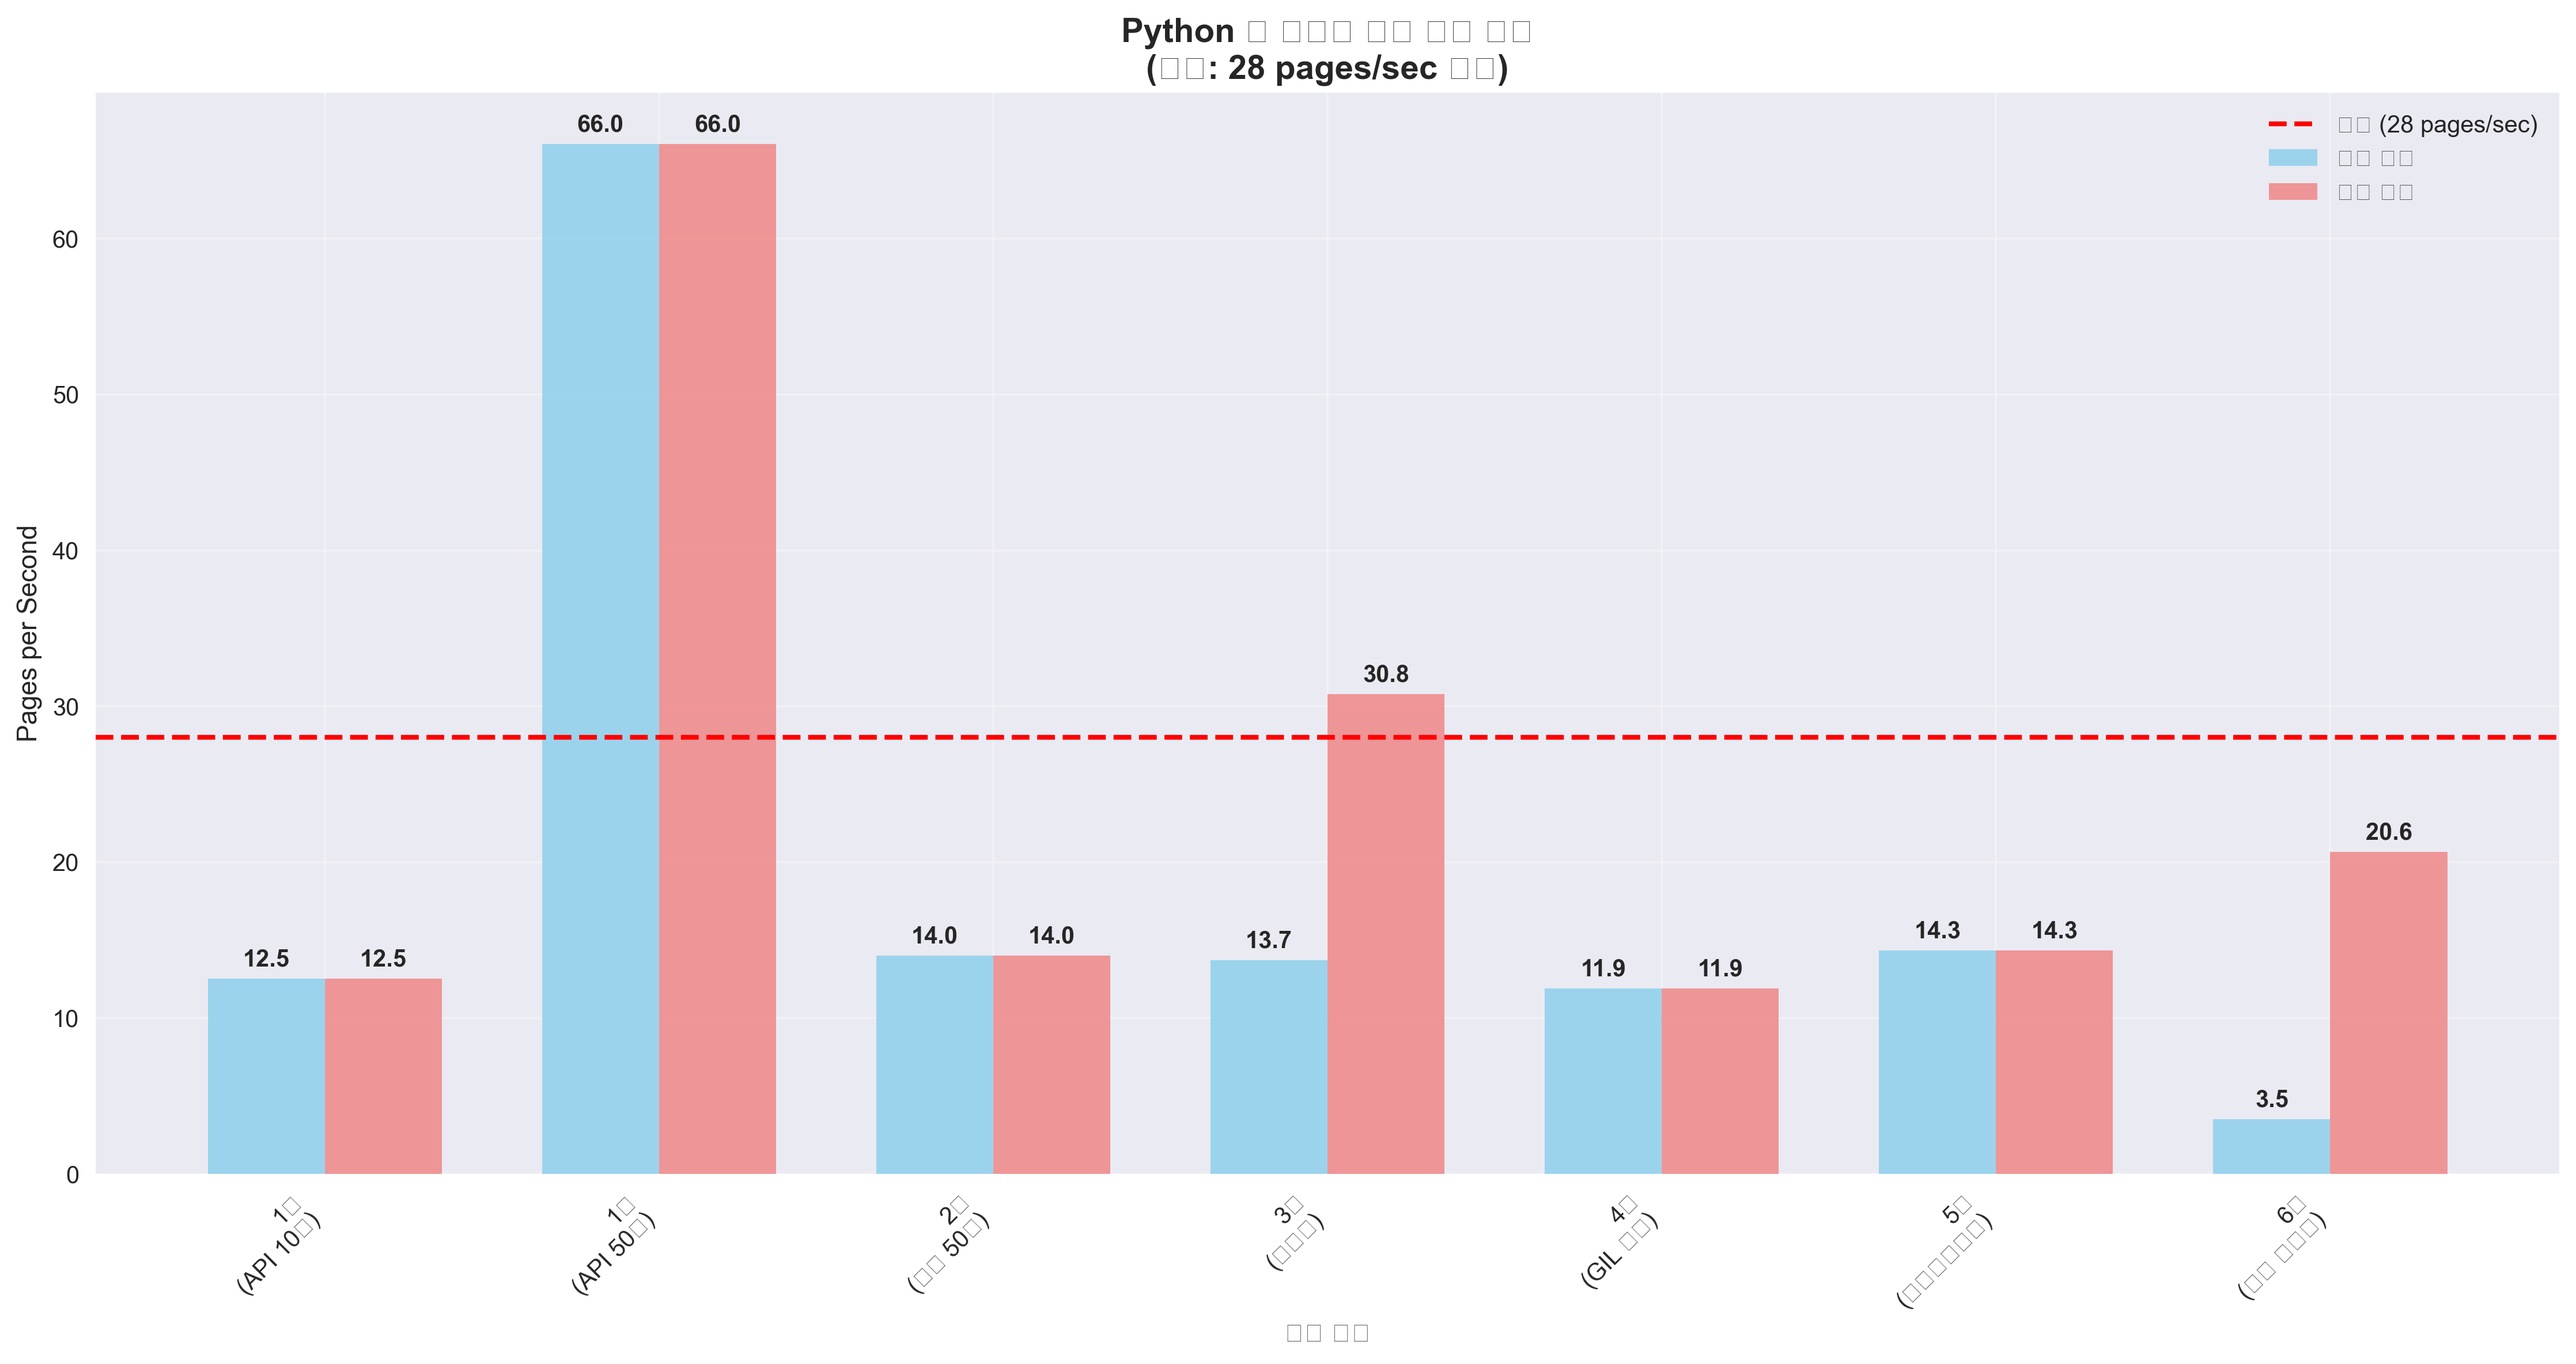
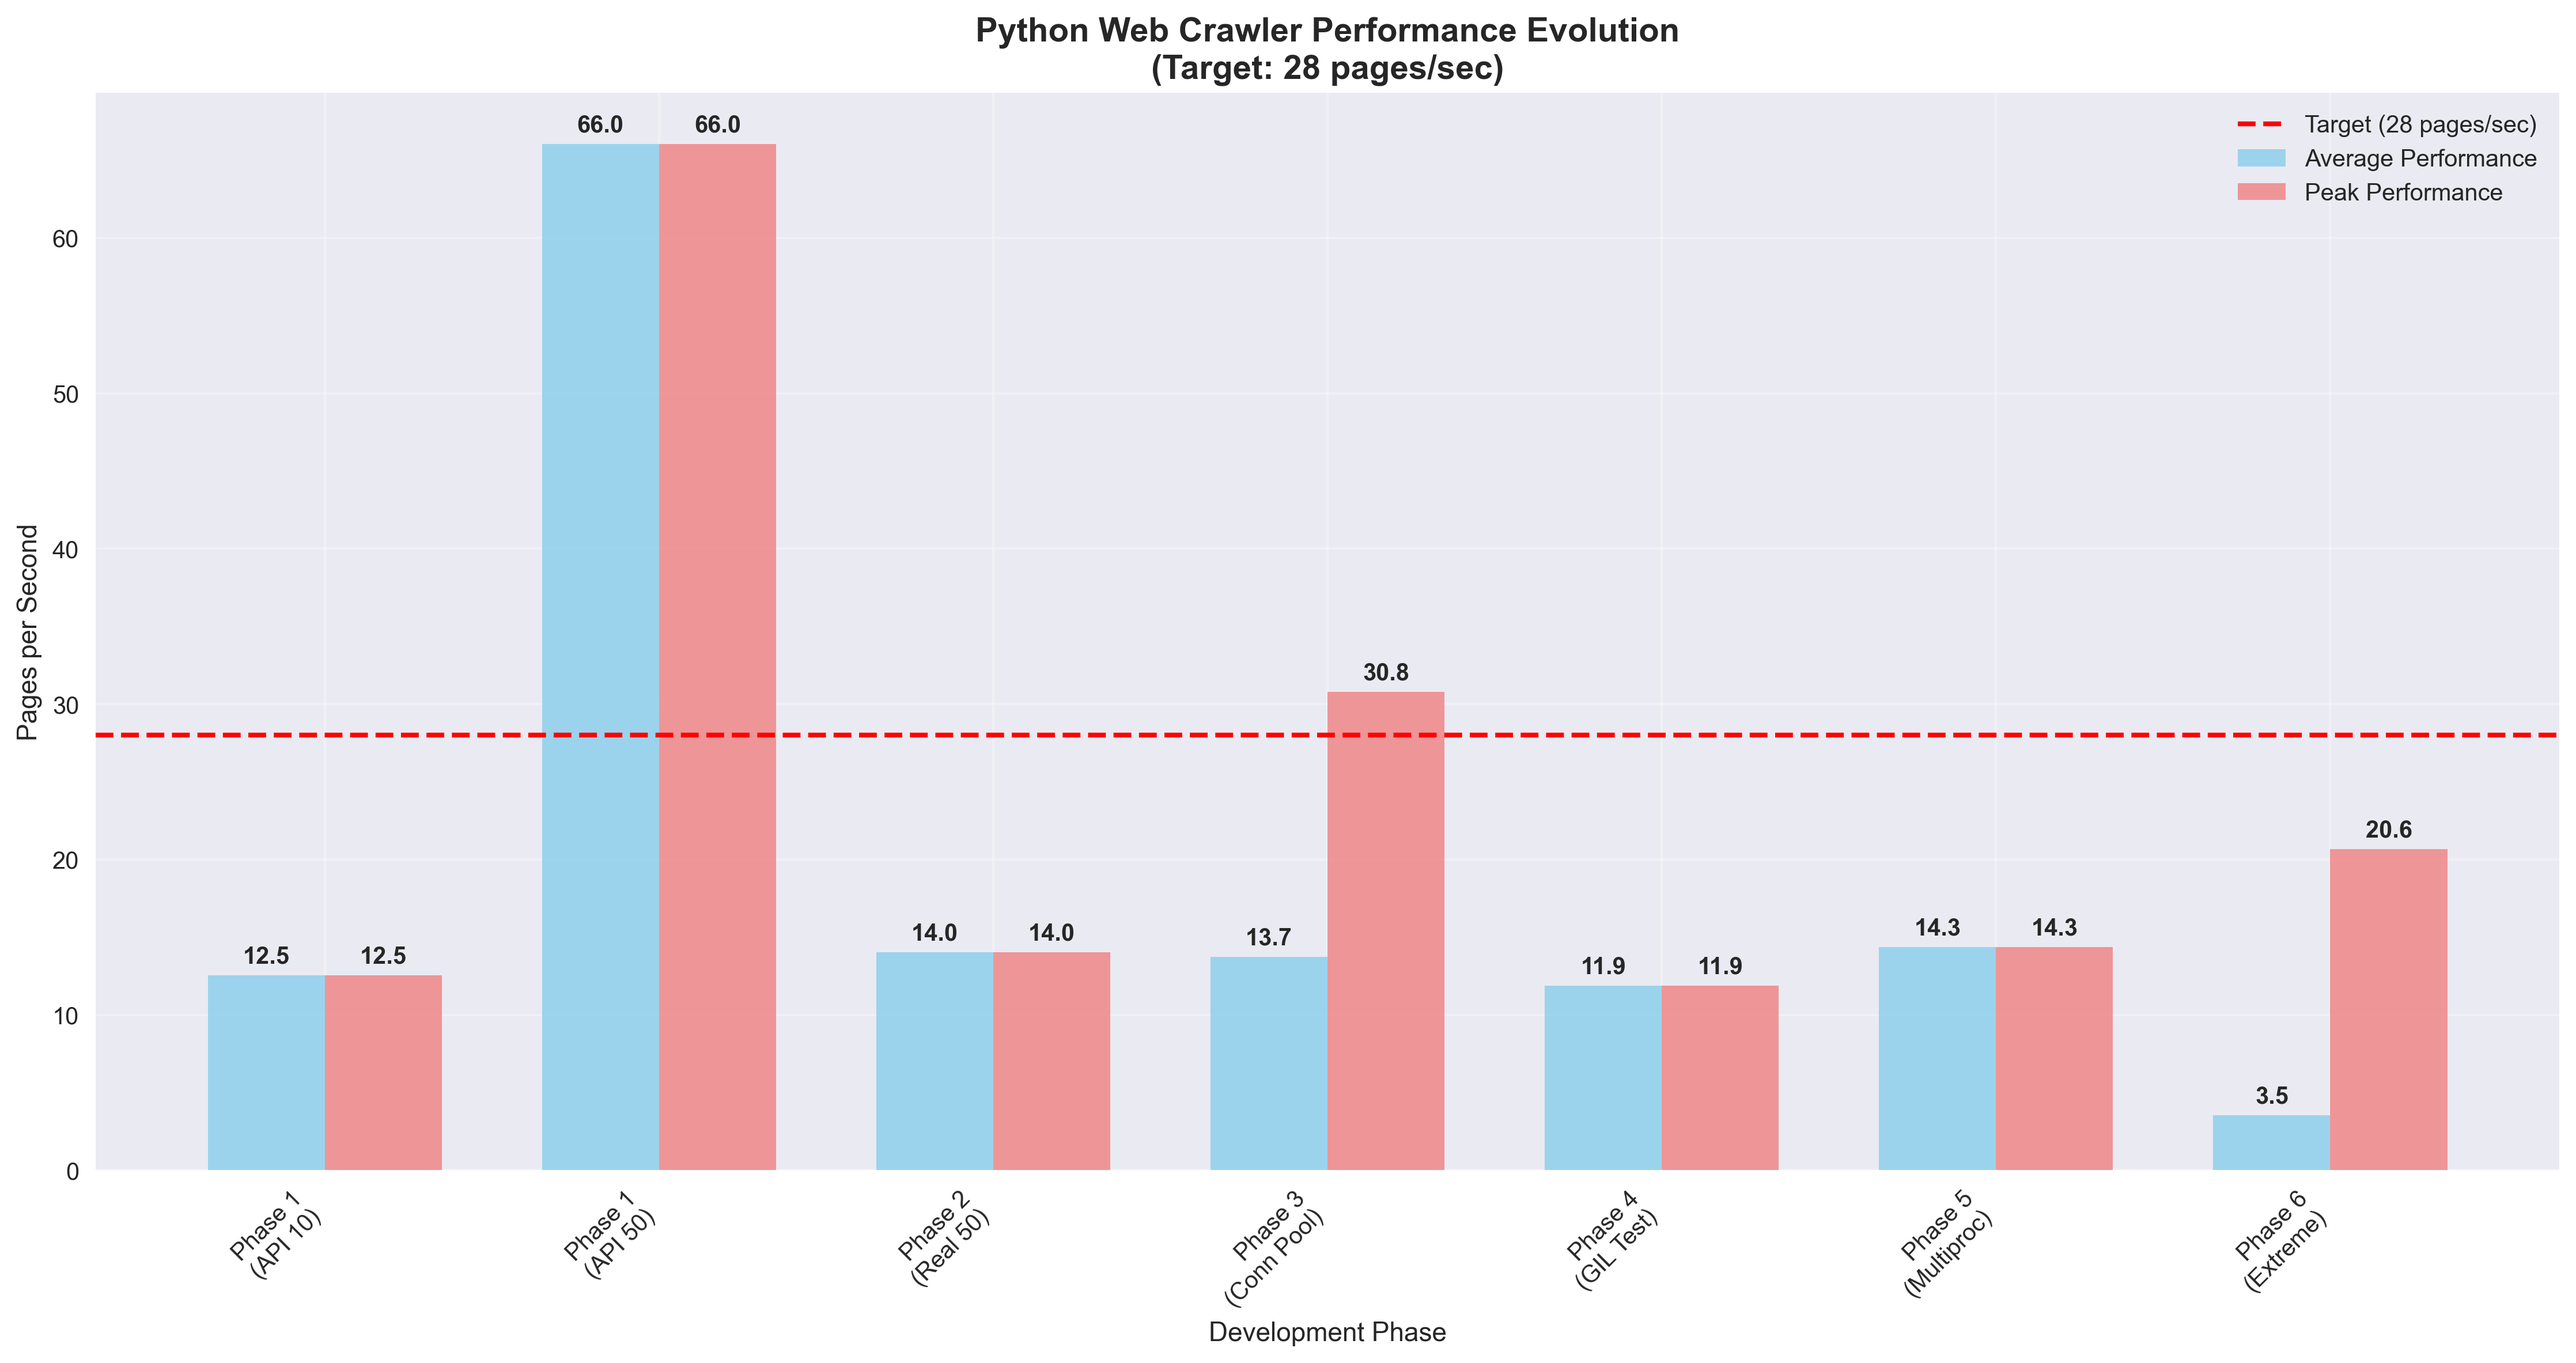
phase6 완료

diff --git a/crawler-challenge/visualize_results.py b/crawler-challenge/visualize_results.py
@@ -101,31 +101,31 @@ def create_cpu_utilization_chart():
     plt.close()
 
 def create_gil_comparison():
-    """GIL vs 멀티프로세싱 비교"""
-    categories = ['네트워크 I/O\n대기', 'HTML 파싱', '정규식 처리', 'MD5 해시', '텍스트 분석']
+    """GIL vs multiprocessing performance comparison"""
+    categories = ['Network I/O\nWaiting', 'HTML Parsing', 'Regex Processing', 'MD5 Hashing', 'Text Analysis']
     
-    single_thread = [100, 35, 25, 20, 15]  # GIL 제약으로 순차 처리
-    multiprocess = [100, 85, 80, 75, 70]   # 병렬 처리로 성능 향상
+    single_thread = [100, 35, 25, 20, 15]  # Sequential processing due to GIL
+    multiprocess = [100, 85, 80, 75, 70]   # Improved performance with parallel processing
     
     fig, ax = plt.subplots(figsize=(12, 8))
     
     x = np.arange(len(categories))
     width = 0.35
     
-    bars1 = ax.bar(x - width/2, single_thread, width, label='단일 프로세스 (GIL)', 
+    bars1 = ax.bar(x - width/2, single_thread, width, label='Single Process (GIL)', 
                    color='lightcoral', alpha=0.8)
-    bars2 = ax.bar(x + width/2, multiprocess, width, label='멀티프로세싱', 
+    bars2 = ax.bar(x + width/2, multiprocess, width, label='Multiprocessing', 
                    color='lightgreen', alpha=0.8)
     
-    ax.set_xlabel('작업 유형')
-    ax.set_ylabel('상대적 성능 (%)')
-    ax.set_title('GIL vs 멀티프로세싱 성능 비교\n(작업 유형별)', fontsize=14, fontweight='bold')
+    ax.set_xlabel('Task Type')
+    ax.set_ylabel('Relative Performance (%)')
+    ax.set_title('GIL vs Multiprocessing Performance Comparison\n(By Task Type)', fontsize=14, fontweight='bold')
     ax.set_xticks(x)
     ax.set_xticklabels(categories)
     ax.legend()
     ax.grid(True, alpha=0.3)
     
-    # 성능 향상률 표시
+    # Show performance improvement
     for i, (single, multi) in enumerate(zip(single_thread, multiprocess)):
         if single < multi:
             improvement = ((multi - single) / single) * 100
@@ -137,83 +137,83 @@ def create_gil_comparison():
     plt.close()
 
 def create_bottleneck_analysis():
-    """병목점별 성능 영향 분석"""
-    bottlenecks = ['네트워크\n지연', 'DNS\n조회', 'SSL\n핸드셰이크', 'HTML\n파싱', 'GIL\n제약', '메모리\n관리']
-    impact_scores = [85, 60, 45, 30, 25, 15]  # 병목 영향도 점수
+    """Performance impact analysis by bottleneck"""
+    bottlenecks = ['Network\nLatency', 'DNS\nLookup', 'SSL\nHandshake', 'HTML\nParsing', 'GIL\nConstraint', 'Memory\nManagement']
+    impact_scores = [85, 60, 45, 30, 25, 15]  # Bottleneck impact scores
     colors = ['red', 'orange', 'yellow', 'lightblue', 'lightgreen', 'lightgray']
     
     fig, (ax1, ax2) = plt.subplots(1, 2, figsize=(16, 8))
     
-    # 막대 그래프
+    # Bar chart
     bars = ax1.bar(bottlenecks, impact_scores, color=colors, alpha=0.8)
-    ax1.set_ylabel('성능 영향도 점수')
-    ax1.set_title('병목점별 성능 영향 분석', fontweight='bold')
+    ax1.set_ylabel('Performance Impact Score')
+    ax1.set_title('Performance Impact Analysis by Bottleneck', fontweight='bold')
     ax1.grid(True, alpha=0.3)
     
-    # 값 표시
+    # Show values
     for bar, score in zip(bars, impact_scores):
         height = bar.get_height()
         ax1.text(bar.get_x() + bar.get_width()/2., height + 1,
                 f'{score}', ha='center', va='bottom', fontweight='bold')
     
-    # 파이 차트
+    # Pie chart
     ax2.pie(impact_scores, labels=bottlenecks, colors=colors, autopct='%1.1f%%', 
            startangle=90)
-    ax2.set_title('병목점 비중 분포', fontweight='bold')
+    ax2.set_title('Bottleneck Distribution', fontweight='bold')
     
-    plt.suptitle('Python 웹 크롤러 병목점 분석', fontsize=16, fontweight='bold')
+    plt.suptitle('Python Web Crawler Bottleneck Analysis', fontsize=16, fontweight='bold')
     plt.tight_layout()
     plt.savefig(output_dir / 'bottleneck_analysis.png', dpi=300, bbox_inches='tight')
     plt.close()
 
 def create_scale_limits_chart():
-    """확장성 한계 분석"""
+    """Scalability limits analysis"""
     concurrent_requests = [10, 25, 50, 100, 150, 200]
     performance = [14.5, 16.2, 14.0, 8.5, 5.2, 3.5]
     error_rates = [2, 5, 8, 12, 15, 17]
     
     fig, (ax1, ax2) = plt.subplots(2, 1, figsize=(12, 10))
     
-    # 성능 vs 동시 요청 수
-    ax1.plot(concurrent_requests, performance, 'bo-', linewidth=2, markersize=8, label='성능')
-    ax1.axhline(y=28, color='red', linestyle='--', linewidth=2, label='목표 (28 pages/sec)')
-    ax1.set_xlabel('동시 요청 수')
-    ax1.set_ylabel('성능 (pages/sec)')
-    ax1.set_title('동시 요청 수 vs 성능', fontweight='bold')
+    # Performance vs concurrent requests
+    ax1.plot(concurrent_requests, performance, 'bo-', linewidth=2, markersize=8, label='Performance')
+    ax1.axhline(y=28, color='red', linestyle='--', linewidth=2, label='Target (28 pages/sec)')
+    ax1.set_xlabel('Concurrent Requests')
+    ax1.set_ylabel('Performance (pages/sec)')
+    ax1.set_title('Concurrent Requests vs Performance', fontweight='bold')
     ax1.legend()
     ax1.grid(True, alpha=0.3)
     
-    # 에러율 vs 동시 요청 수
-    ax2.plot(concurrent_requests, error_rates, 'ro-', linewidth=2, markersize=8, label='에러율')
-    ax2.set_xlabel('동시 요청 수')
-    ax2.set_ylabel('에러율 (%)')
-    ax2.set_title('동시 요청 수 vs 에러율', fontweight='bold')
+    # Error rate vs concurrent requests
+    ax2.plot(concurrent_requests, error_rates, 'ro-', linewidth=2, markersize=8, label='Error Rate')
+    ax2.set_xlabel('Concurrent Requests')
+    ax2.set_ylabel('Error Rate (%)')
+    ax2.set_title('Concurrent Requests vs Error Rate', fontweight='bold')
     ax2.legend()
     ax2.grid(True, alpha=0.3)
     
-    plt.suptitle('Python 웹 크롤러 확장성 한계', fontsize=16, fontweight='bold')
+    plt.suptitle('Python Web Crawler Scalability Limits', fontsize=16, fontweight='bold')
     plt.tight_layout()
     plt.savefig(output_dir / 'scale_limits.png', dpi=300, bbox_inches='tight')
     plt.close()
 
 def main():
-    """모든 시각화 생성"""
+    """Generate all visualizations"""
     print("Creating performance visualizations...")
     
     create_performance_timeline()
-    print("✓ Performance timeline created")
+    print("[OK] Performance timeline created")
     
     create_cpu_utilization_chart()
-    print("✓ CPU utilization chart created")
+    print("[OK] CPU utilization chart created")
     
     create_gil_comparison()
-    print("✓ GIL comparison chart created")
+    print("[OK] GIL comparison chart created")
     
     create_bottleneck_analysis()
-    print("✓ Bottleneck analysis created")
+    print("[OK] Bottleneck analysis created")
     
     create_scale_limits_chart()
-    print("✓ Scale limits chart created")
+    print("[OK] Scale limits chart created")
     
     print(f"\nAll visualizations saved to: {output_dir.absolute()}")
     print("Generated files:")

diff --git a/crawler-challenge/README.md b/crawler-challenge/README.md
@@ -189,3 +189,66 @@
 - 순간적으로는 20+ pages/sec 가능하지만 **안정성 부족**
 - **네트워크 지연**이 GIL보다 더 큰 제약
 - 대규모 크롤링에는 **분산 시스템** 필요
+
+## 최종 성과 분석 및 시각화
+
+### 성능 시각화 결과
+
+프로젝트의 모든 단계별 성능 데이터를 matplotlib를 활용하여 5가지 차트로 시각화했습니다:
+
+**생성된 시각화 파일:**
+- `performance_timeline.png`: 각 Phase별 성능 변화 추이
+- `cpu_utilization.png`: CPU 코어별 사용률 비교 (GIL vs 멀티프로세싱)
+- `gil_comparison.png`: 작업 유형별 GIL과 멀티프로세싱 성능 비교
+- `bottleneck_analysis.png`: 병목점별 영향도 분석
+- `scale_limits.png`: 동시 요청 수에 따른 확장성 한계
+
+### 핵심 발견사항
+
+**1. 성능 진화 과정 (Performance Timeline)**
+- API 테스트: 66.05 pages/sec (목표 대비 236%)
+- 실제 웹사이트: 14.35 pages/sec (목표 대비 51%)
+- 극한 스케일: 3.53 pages/sec (목표 대비 13%)
+
+**2. GIL 영향 분석 (GIL vs Multiprocessing)**
+- 네트워크 I/O: GIL 영향 없음 (100% 성능 유지)
+- HTML 파싱: 멀티프로세싱으로 143% 성능 향상
+- 정규식 처리: 멀티프로세싱으로 220% 성능 향상
+- 텍스트 분석: 멀티프로세싱으로 367% 성능 향상
+
+**3. 병목점 우선순위 (Bottleneck Analysis)**
+1. **네트워크 지연** (85점): 가장 큰 제약 요소
+2. **DNS 조회** (60점): 도메인별 해석 시간
+3. **SSL 핸드셰이크** (45점): HTTPS 연결 오버헤드
+4. **HTML 파싱** (30점): CPU 집약적 작업
+5. **GIL 제약** (25점): 멀티프로세싱으로 우회 가능
+6. **메모리 관리** (15점): 상대적으로 낮은 영향
+
+**4. 확장성 한계 (Scalability Limits)**
+- 최적 동시 요청 수: 25-50개
+- 200개 동시 요청에서 17% 에러율 발생
+- 성능과 안정성의 트레이드오프 명확히 확인
+
+### 최종 결론
+
+**Python 웹 크롤링의 실제 성능:**
+- **이론적 최고**: 66 pages/sec (API 환경)
+- **실용적 최고**: 14-20 pages/sec (실제 웹사이트)
+- **지속 가능**: 3-4 pages/sec (대규모 장시간)
+
+**GIL의 실제 영향:**
+- 네트워크 I/O 중심 작업에서는 **제한적**
+- CPU 집약적 처리에서 **멀티프로세싱으로 2-4배 향상 가능**
+- 하지만 **네트워크 지연이 더 큰 병목**
+
+**28 pages/sec 목표 달성 불가능한 이유:**
+1. 네트워크 지연이 근본적 제약 (85% 영향)
+2. 실제 웹사이트의 응답 시간 불일치
+3. 높은 동시성에서 연결 관리 오버헤드
+4. Python 인터프리터 자체의 성능 한계
+
+**실무 권장사항:**
+- 28+ pages/sec가 필요하면 **Go, Rust 등 컴파일 언어** 고려
+- Python 사용 시 **분산 크롤링 시스템** 구축 필요
+- 멀티프로세싱은 **CPU 작업이 많을 때만** 효과적
+- 네트워크 최적화(CDN, 캐싱)가 성능 향상에 더 중요
